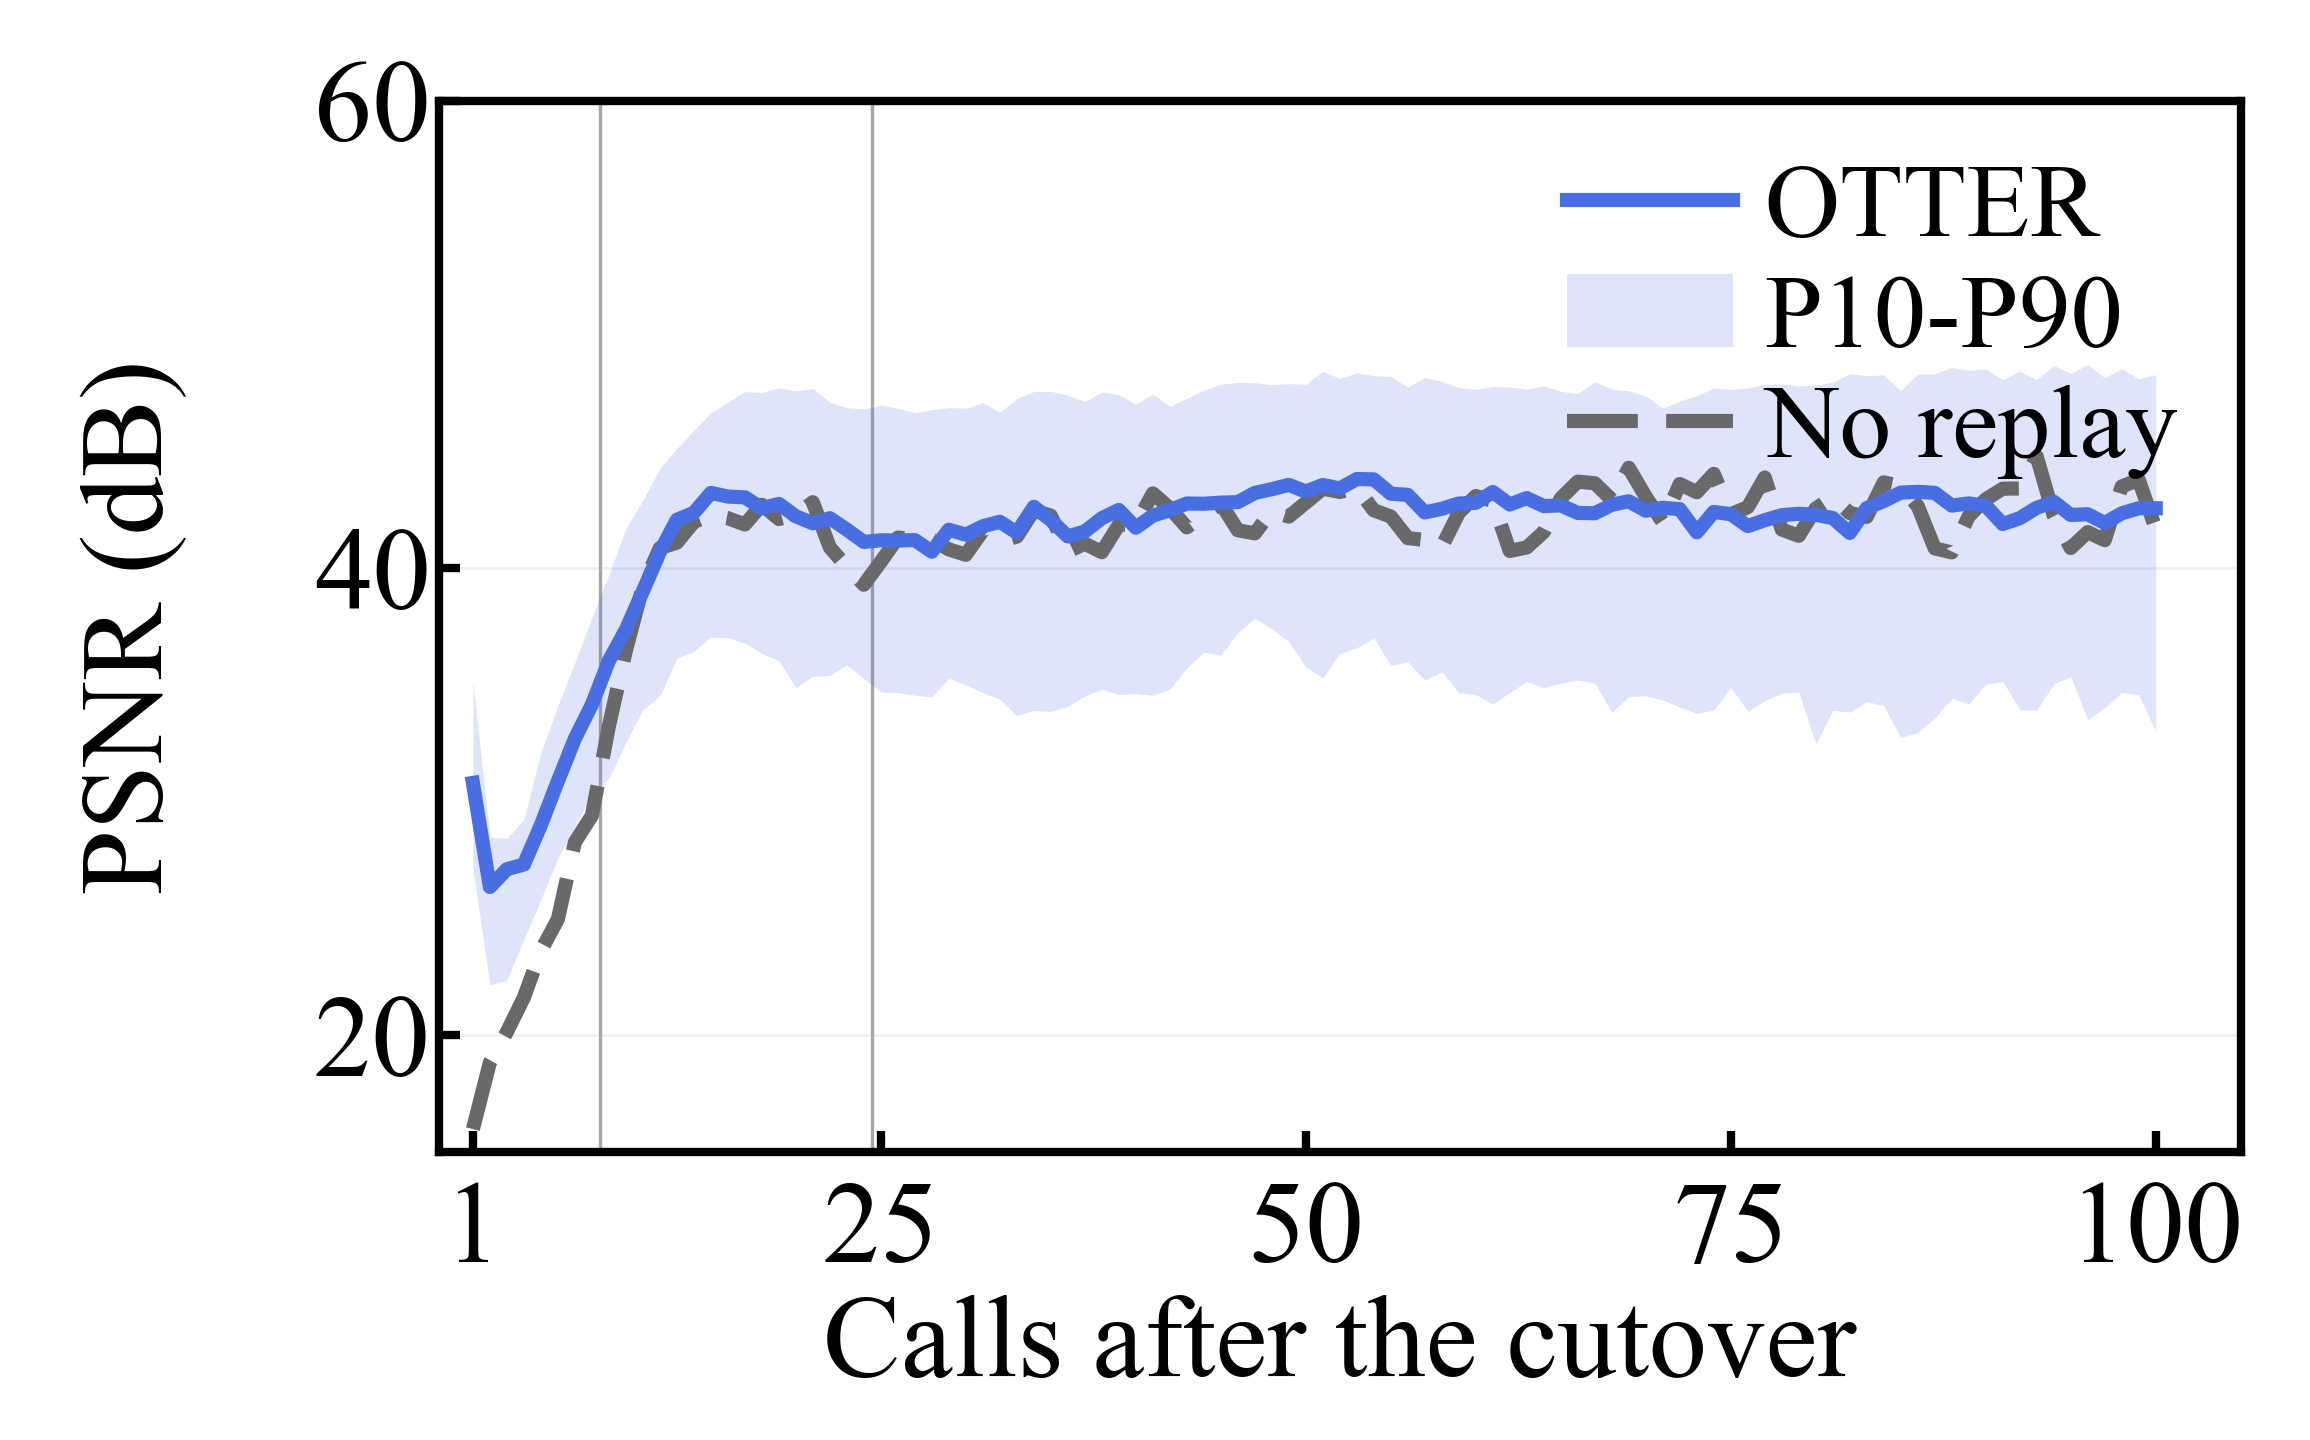
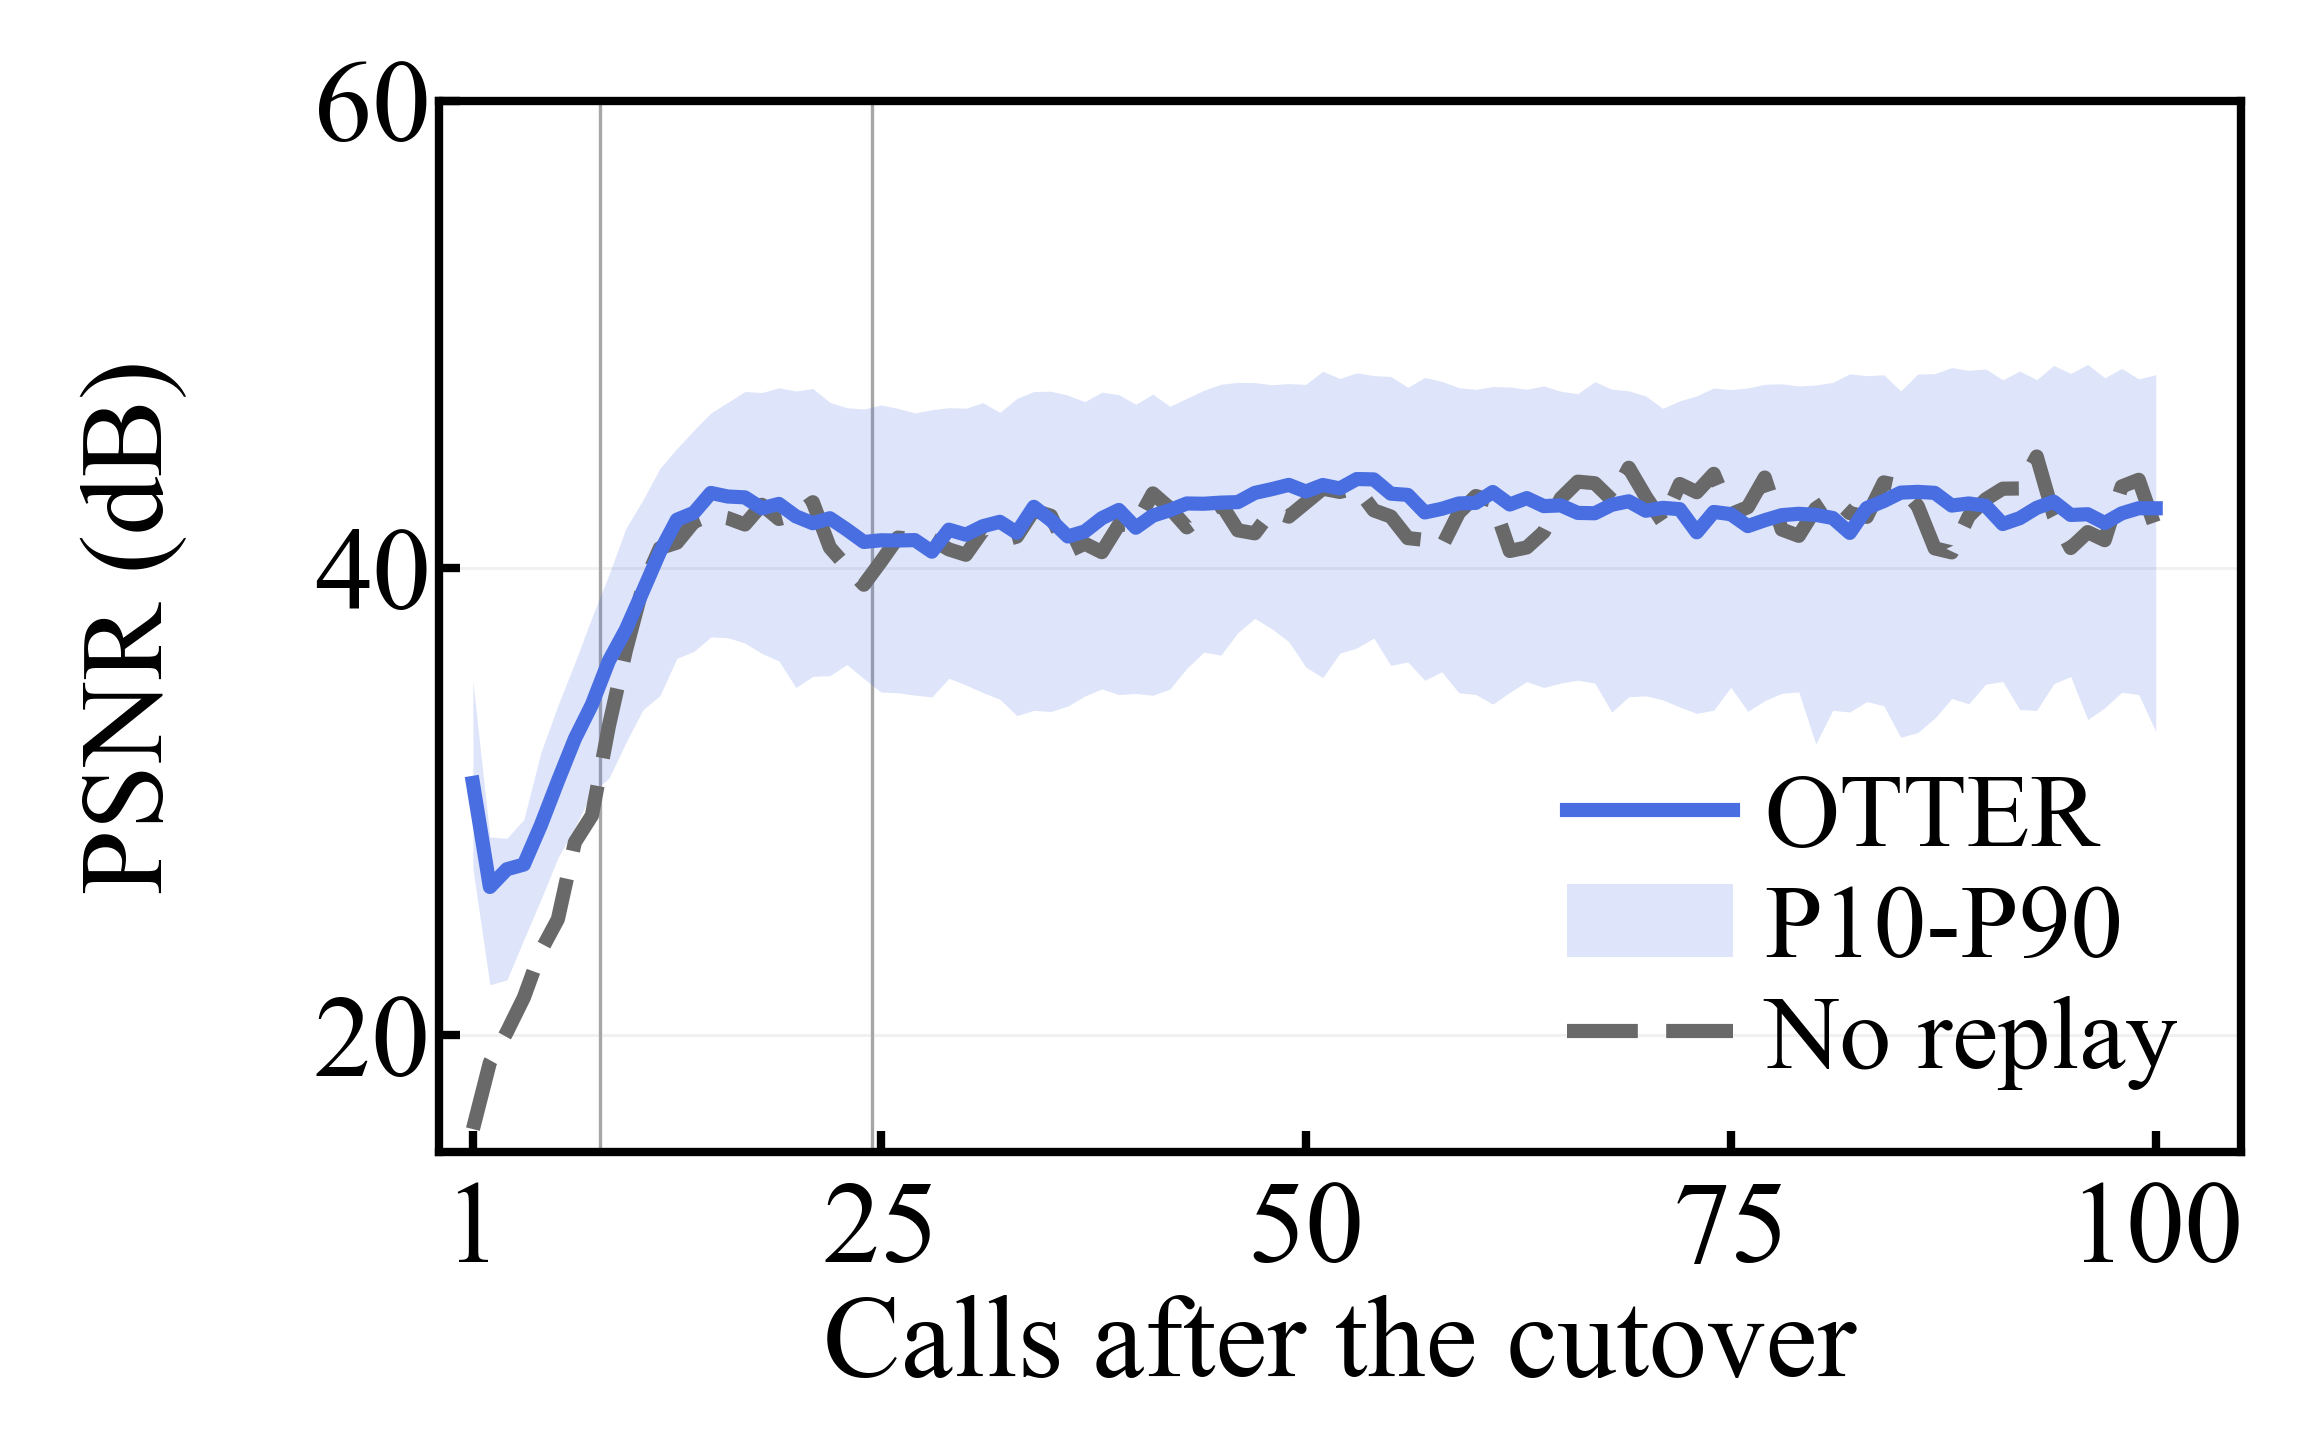
Fig. 13a legend to the lower right (user 2026-11-03)

Changed region(s): [[0.6545, 0.5312, 0.9351, 0.75], [0.6545, 0.0938, 0.9351, 0.25], [0.6857, 0.2812, 0.9351, 0.3438]]

diff --git a/tools/eval/plot_fig13.py b/tools/eval/plot_fig13.py
@@ -76,7 +76,7 @@ def panel_a(runs, out):
     from matplotlib.patches import Patch
     hs = [Line2D([], [], color=BLUE, lw=3.4, label="OTTER"), Patch(color=BLUE, alpha=0.18, lw=0, label="P10-P90"),
           Line2D([], [], color=DIM_GRAY, ls=(0, (5, 2)), lw=3.4, label="No replay")]
-    legend(ax, hs, "upper right")
+    legend(ax, hs, "lower right")   # user 2026-11-03
     save(fig, out)
 
 
